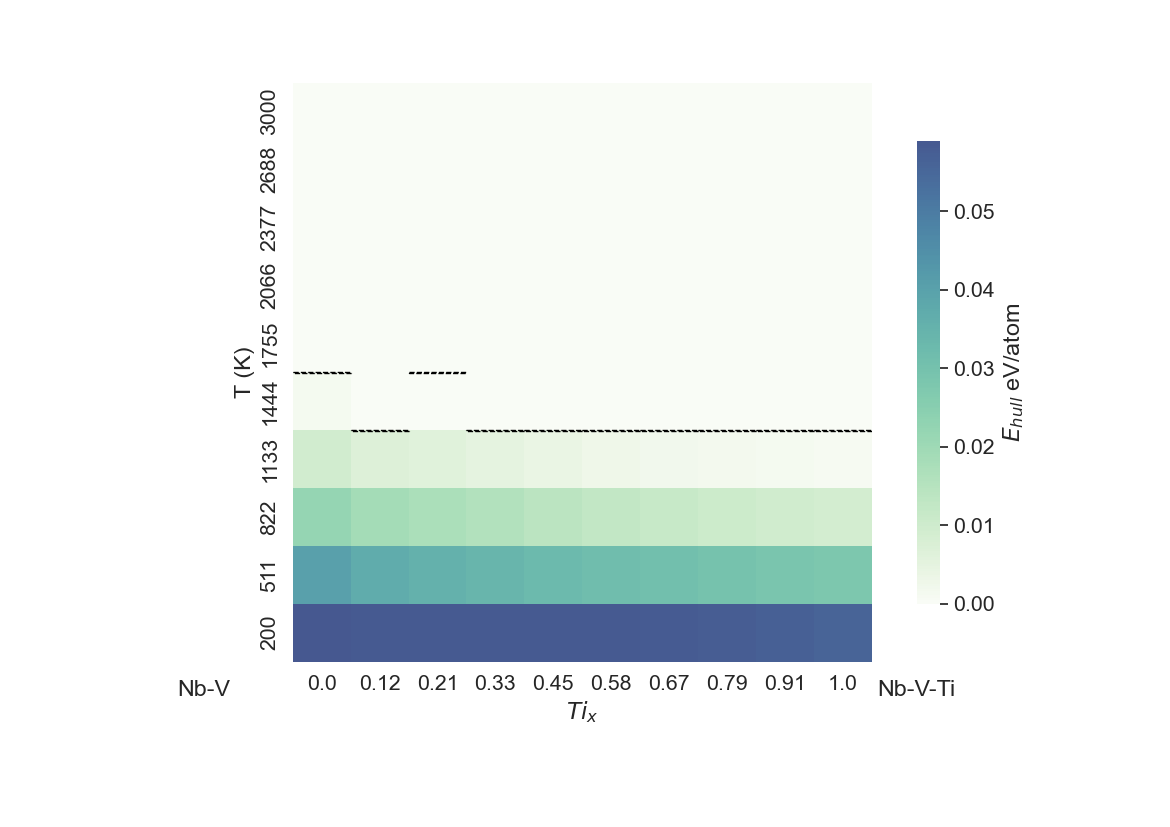
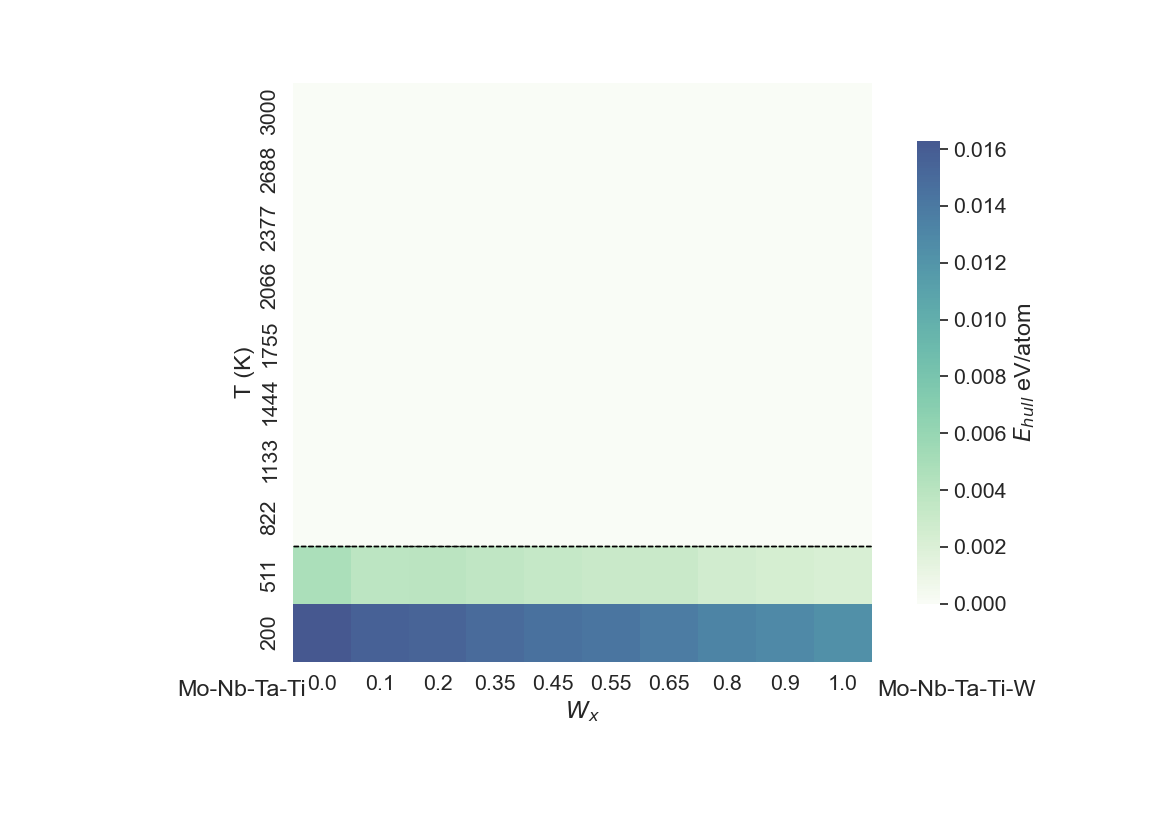
changed ternary diagrams

diff --git a/calculateEnthalpy/example_runs.py b/calculateEnthalpy/example_runs.py
@@ -15,36 +15,36 @@ pD = phaseDiagram(
 	processed_file_path=processed_file_path,
 grid_size=20)
 
-composition = ['Ti', 'V', 'Nb']
-equi = True
-if equi:
-	mol_ratio = [1/len(composition)]*len(composition)
-
-# #Find Miscibility temperature
-print(pD.find_misc_temperature(composition=composition, mol_ratio=mol_ratio))
-
-
-#Find decomposition products at a particular temperature
-decomp_products, e_above_hull = pD.find_decomp_products(composition=composition,
-							  mol_ratio=mol_ratio,
-							  temperature=1100)
-print(decomp_products)
-print('E_above_hull: ', e_above_hull, " eV/atom")
-
-#Find mixing enthalpy of a multinary
-tm = thermoMaths()
-composition_dict =  dict(zip(composition, mol_ratio))
-composition_dict = {key: val for key, val in composition_dict.items() if val != 0.0}
-with open(processed_file_path, "r") as f:
-	data = json.load(f)
-print(tm.calc_mutinary_multilattice_mix_Enthalpy(composition_dict, data))
-
-#Find mixing enthalpies of all subsets in a composition
-print(tm.find_subset_enthalpies(composition, data))
+# composition = ['Mo', 'Ta', 'Nb']
+# equi = True
+# if equi:
+# 	mol_ratio = [1/len(composition)]*len(composition)
+#
+# # #Find Miscibility temperature
+# print(pD.find_misc_temperature(composition=composition, mol_ratio=mol_ratio))
+#
+#
+# #Find decomposition products at a particular temperature
+# decomp_products, e_above_hull = pD.find_decomp_products(composition=composition,
+# 							  mol_ratio=mol_ratio,
+# 							  temperature=1100)
+# print(decomp_products)
+# print('E_above_hull: ', e_above_hull, " eV/atom")
+#
+# #Find mixing enthalpy of a multinary
+# tm = thermoMaths()
+# composition_dict =  dict(zip(composition, mol_ratio))
+# composition_dict = {key: val for key, val in composition_dict.items() if val != 0.0}
+# with open(processed_file_path, "r") as f:
+# 	data = json.load(f)
+# print(tm.calc_mutinary_multilattice_mix_Enthalpy(composition_dict, data))
+#
+# #Find mixing enthalpies of all subsets in a composition
+# print(tm.find_subset_enthalpies(composition, data))
 
 #plot heatmaps like Zhaohan with one added element
-composition = ['Nb', 'V']
-add_el = 'Ti'
+composition = ['Mo','Nb', 'Ta','Ti']
+add_el = 'W'
 
 temp_space = 10
 mol_space = 10

diff --git a/calculateEnthalpy/higherOrderPhaseDiagrams/createTernaryDiagrams.py b/calculateEnthalpy/higherOrderPhaseDiagrams/createTernaryDiagrams.py
@@ -12,15 +12,20 @@ from pymatgen.analysis.phase_diagram import PDPlotter
 Example script to make a ternary diagram. Left bare for higher customizability. 
 """
 
-pD = phaseDiagram(source="pravan", lattice="bcc", version_no=3, im_flag=False, abs_file_path="../../data/output_data", binary_dict_path="../../data/input_data")
-composition = "Cr-V-Fe"
-equi = False
+processed_file_path = "/Users/pravanomprakash/Documents/Projects/mixing-enthalpy/data/output_data/Pravan_bcc_4/all_lattices_binaries.json"
+pD = phaseDiagram(
+	processed_file_path=processed_file_path,
+grid_size=20)
+composition = ['Cr', 'V', 'Ti']
+equi = 'off_equi'
+
 phase_diag_dict = pD.make_PD_comp_temp(composition=composition, equi_flag=equi)
+
 temps = list(phase_diag_dict.keys())[::2]
 grid_size = 30
 mol_grid = create_mol_grid(3, grid_size)
 mol_grid = np.array(mol_grid)
-ele_list = composition.split('-')
+ele_list = '-'.join(composition)
 folder_path = "../../plots/phase_diagrams"
 if not os.path.exists(f"{folder_path}/{composition}"):
 	os.mkdir(f"{folder_path}/{composition}")
@@ -30,11 +35,14 @@ for temp in tqdm(temps, desc="Creating phase diagrams"):
 	stables = []
 	# PDPlotter(phase_diag_dict[temp]).show()
 	for idx, mol in enumerate(mol_grid):
+		enthalpy, entropy, mol_ratio = pD.find_enthalpy_entropy_composition(composition=composition,
+																   mol_ratio=mol)
 
-
-		is_stable = pD.check_stability(mol_ratio=mol,
+		is_stable = pD.check_stability(mol_ratio=mol_ratio,
 									   temp=temp,
-									   conv_hull=phase_diag_dict[temp])
+									   conv_hull=phase_diag_dict[temp],
+									   entropy=entropy,
+									   mix_enthalpy=enthalpy)
 		if is_stable is not None:
 			if np.isclose(is_stable[1], 0.0, atol=1e-2):
 				stable = 0
@@ -53,7 +61,7 @@ for temp in tqdm(temps, desc="Creating phase diagrams"):
 	ax.set_tlabel(f"{ele_list[0]}")
 	ax.set_llabel(f"{ele_list[1]}")
 	ax.set_rlabel(f"{ele_list[2]}")
-	if equi:
-		plt.savefig(f"{folder_path}/{composition}/{temp}_equi.png")
+	if equi == "equi":
+		plt.savefig(f"{folder_path}/{ele_list}/{temp}_equi.png")
 	else:
-		plt.savefig(f"{folder_path}/{composition}/{temp}.png")
+		plt.savefig(f"{folder_path}/{ele_list}/{temp}.png")

diff --git a/calculateEnthalpy/helper_functions/phase_diagram.py b/calculateEnthalpy/helper_functions/phase_diagram.py
@@ -69,9 +69,10 @@ class phaseDiagram:
 				alloy_list = alloy.split('-')
 
 				for mol_idx, mol_frac in enumerate(mol_grid):
+					# print(mol_idx)
 					mol_ratio = dict(zip(alloy_list, mol_frac))
 					mol_ratio = {key: val for key, val in mol_ratio.items() if val != 0.0}
-
+					print(mol_ratio)
 					mix_enthalpy = self.tm.calc_mutinary_multilattice_mix_Enthalpy(
 						mol_ratio=mol_ratio,
 						binary_dict=self.data
@@ -234,8 +235,8 @@ class phaseDiagram:
 		return phase_diagram
 
 	def make_PD_comp_temp(self,
-						  composition: str,
-						  equi_flag: bool) -> dict[float:PhaseDiagram]:
+						  composition: list,
+						  equi_flag: str) -> dict[float:PhaseDiagram]:
 		"""
 		Creates a Phase Diagram object for a temperature grid and composition.
 		Args:
@@ -246,12 +247,9 @@ class phaseDiagram:
 		"""
 		PD_temp_comp_dict = {}
 		for idx, temp in enumerate(tqdm(self.temp_grid, desc="Running Temperature")):
-			if equi_flag:
-				PD_temp_comp_dict[temp] = self.make_PD_composition_equi(temperature=temp,
-																		composition=composition)
-			else:
-				PD_temp_comp_dict[temp] = self.make_PD_composition(temperature=temp,
-																   composition=composition)
+			PD_temp_comp_dict[temp] = self.make_convex_hull(temperature=temp,
+															composition=composition,
+															flag=equi_flag)
 
 		return PD_temp_comp_dict
 
@@ -315,6 +313,20 @@ class phaseDiagram:
 			return df, np.round(is_stable[1],4)
 		else:
 			return None,0
+	def find_enthalpy_entropy_composition(self,
+										  composition,
+										  mol_ratio:list):
+		mol_ratio = dict(zip(composition, mol_ratio))
+		# print(mol_ratio)
+		mol_ratio = {key: val for key, val in mol_ratio.items() if val != 0.0}
+
+		if len(mol_ratio.keys()) == 1:
+			mix_enthalpy = 0
+		else:
+			mix_enthalpy = min(self.tm.calc_mutinary_multilattice_mix_Enthalpy(mol_ratio=mol_ratio,
+																			   binary_dict=self.data).values())
+		entropy = self.tm.calc_configEntropy(mol_ratio)
+		return mix_enthalpy, entropy, mol_ratio
 
 	def find_misc_temperature(self,
 

diff --git a/calculateEnthalpy/calculateEnthalpyDataset/calculateEnthalpyDataset.py b/calculateEnthalpy/calculateEnthalpyDataset/calculateEnthalpyDataset.py
@@ -11,7 +11,7 @@ from calculateEnthalpy.callMpAPI.utils import getAPIKey
 from calculateEnthalpy.helper_functions.thermo_math import thermoMaths
 from calculateEnthalpy.helper_functions.grid_code import create_multinary, create_mol_grid
 from calculateEnthalpy.helper_functions.data_utils import DataUtils
-
+from emmet.core.thermo import ThermoType
 import warnings
 warnings.filterwarnings("ignore")
 
@@ -57,10 +57,10 @@ class calculateEnthalpyDataset:
         # self.tm = thermoMaths(binary_dict=self.binary_dict)
         self.output_folder_path = f"../../data/output_data/"
         self.result_dict = {}
-
-        # self.mpr = MPRester(
-        #     api_key=getAPIKey("../callMpAPI/api_key.txt"))
-        # self.fields = ['composition', 'formation_energy_per_atom', 'energy_above_hull', 'chemsys']
+        self.tm = thermoMaths()
+        self.mpr = MPRester(
+            api_key=getAPIKey("../callMpAPI/api_key.txt"))
+        self.fields = ['composition', 'formation_energy_per_atom', 'energy_above_hull', 'chemsys']
 
     def _create_output_folder(self) -> None:
         """
@@ -249,7 +249,8 @@ class calculateEnthalpyDataset:
 
 ced = calculateEnthalpyDataset(input_folder_path="../../data/input_data/",
                                lattice="bcc",
-                               source="pravan",
+                               source="bokas2",
+                               im_flag=True
                                # ele_list=['Cr', 'Fe','Mn','Ta','Ti','W','V','Mo','Nb','Zr']
                                )
-print(ced.process_input_main)
+print(ced.compute_mixing_enthalpies)

diff --git a/calculateEnthalpy/helper_functions/thermo_math.py b/calculateEnthalpy/helper_functions/thermo_math.py
@@ -160,6 +160,7 @@ class thermoMaths:
             for idx2, ele in enumerate(binary):
                 two_el = ele.split("-")
                 mix_enthalpy_values = binary_dict[ele]
+                # print(mix_enthalpy_values)
                 for lattice, enthalpy in mix_enthalpy_values.items():
                     if model == "regular":
                         omega_ij = self.calc_pairwiseInteractionParameter(mix_enthalpy=enthalpy,
@@ -169,10 +170,13 @@ class thermoMaths:
                     mol_fraction = [mol_ratio[two_el[0]], mol_ratio[two_el[1]]]
                     H_mix = self.calc_regular_model_enthalpy(mol_fraction=mol_fraction,
                                                              omega=omega_ij)
+
                     if lattice not in mix_enthalpy:
                         mix_enthalpy[lattice] = H_mix
                     else:
                         mix_enthalpy[lattice] += H_mix
+
+        # print('bla-bla',mix_enthalpy)
 
         return mix_enthalpy
     def find_subset_enthalpies(self,

diff --git a/extract2groundstate/apply_correction.py b/extract2groundstate/apply_correction.py
@@ -63,7 +63,7 @@ for phase in ["BCC", "FCC", "HCP"]:
         mixing_enthalpies[phase][pair] = mixing_enthalpies[phase][pair] / 4 \
                                          - 0.5 * (elements[groundstate_dict[a]][a] + elements[groundstate_dict[b]][b]
                                                   - elements[phase][a] - elements[phase][b])
-with open('../data/input_data/bokas/bcc_bokas.json', 'w') as json_file:
+with open('../data/input_data/bokas2/bcc_bokas.json', 'w') as json_file:
     json.dump(mixing_enthalpies['BCC'], json_file)
 with open('../data/input_data/bokas/fcc_bokas.json', 'w') as json_file:
     json.dump(mixing_enthalpies['FCC'], json_file)
